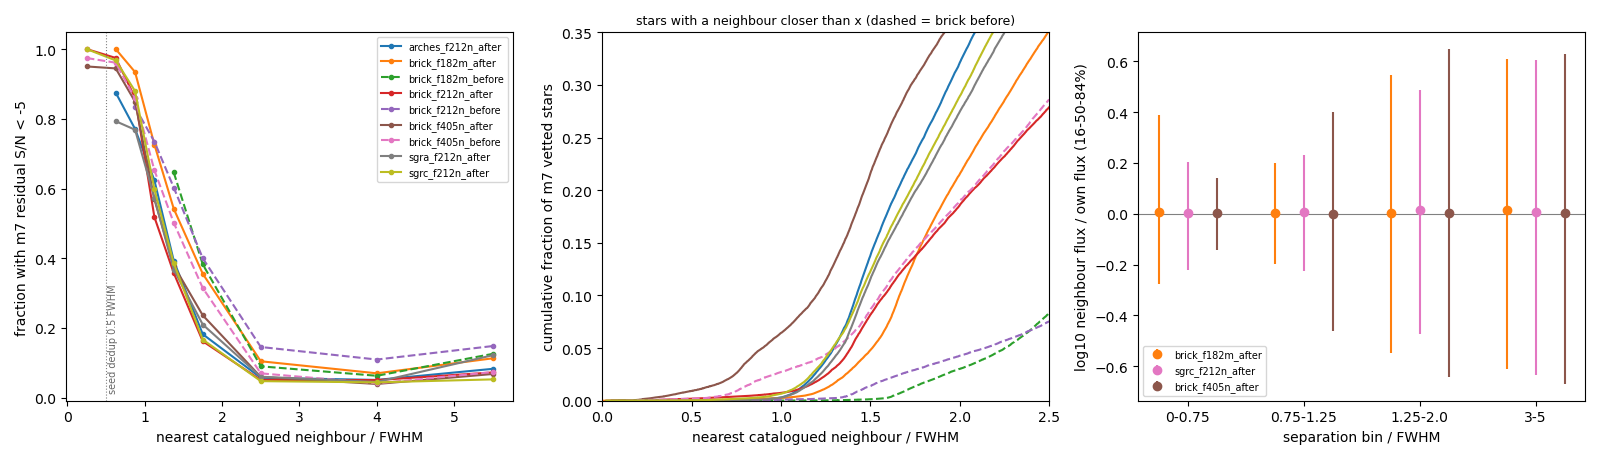
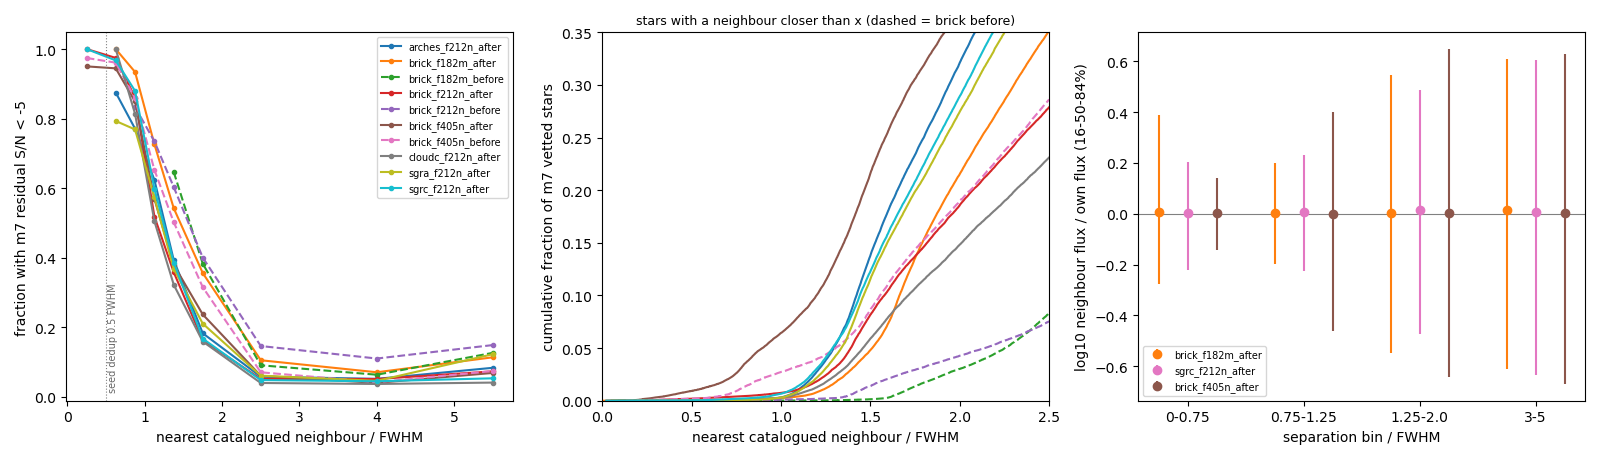
evidence: add cloudc F212N to the close-pair over-subtraction table
cloudc F212N m7 (re-catalogued after #1185) shows the same separation
dependence: S/N < -5 at 100% / 54% / 32% / 16% for 0-0.75 / 0.75-1.25 /
1.25-1.5 / 1.5-2 FWHM, 4% for isolated stars. table.py and figs.py now
read only the nn_oversub.py JSONs (*_after/*_before).

Claude-Session: https://claude.ai/code/session_018MNE6mts5ka4f6Za16Dcw5

diff --git a/docs/evidence/close_pair_oversub/scripts/table.py b/docs/evidence/close_pair_oversub/scripts/table.py
@@ -7,7 +7,7 @@ OUT = os.path.join(os.path.dirname(os.path.abspath(__file__)), 'out')
 GROUPS = [(0, 0.75), (0.75, 1.25), (1.25, 1.5), (1.5, 2), (2, 3), (3, 5), (5, float('inf'))]
 lines = ['| field band (m7) | n vetted | ' + ' | '.join(f'{a}–{b:g}' for a, b in GROUPS)
          + ' | all | NN < 1.5 FWHM |', '|---|---|' + '---|' * len(GROUPS) + '---|---|']
-files = sorted(glob.glob(os.path.join(OUT, '*.json')),
+files = sorted((f for f in glob.glob(os.path.join(OUT, '*.json')) if f.endswith(('_after.json', '_before.json'))),
                key=lambda f: (json.load(open(f))['which'] != 'after', f))
 for f in files:
     d = json.load(open(f))

diff --git a/docs/evidence/close_pair_oversub/scripts/figs.py b/docs/evidence/close_pair_oversub/scripts/figs.py
@@ -31,7 +31,7 @@ SEPBINS = [(0, 0.75), (0.75, 1.25), (1.25, 2.0)]
 
 def curves():
     fig, ax = plt.subplots(1, 3, figsize=(16, 4.6))
-    for f in sorted(glob.glob(os.path.join(OUT, '*.json'))):
+    for f in sorted(f for f in glob.glob(os.path.join(OUT, '*.json')) if f.endswith(('_after.json', '_before.json'))):
         d = json.load(open(f))
         name = os.path.basename(f)[:-5]
         ls = '--' if d['which'] == 'before' else '-'

diff --git a/docs/evidence/close_pair_oversub/README.md b/docs/evidence/close_pair_oversub/README.md
@@ -31,6 +31,7 @@ star (`results/table.md`, `figures/curves.png`):
 | brick F182M after | 388,930 | 100% (66) | 76% (635) | 54% (2181) | 36% (10035) | 10% (15959) | 7% (23758) | 11% (7342) | 15.8% | 4.8% |
 | brick F212N after | 195,636 | 99% (233) | 58% (1217) | 36% (3453) | 16% (6248) | 5% (11319) | 5% (22941) | 7% (14572) | 10.0% | 8.2% |
 | brick F405N after | 88,722 | 95% (1572) | 69% (5273) | 38% (6116) | 24% (9293) | 6% (12242) | 4% (19520) | 7% (5921) | 19.3% | 21.6% |
+| cloudc F212N after | 233,665 | 100% (56) | 54% (1002) | 32% (2486) | 16% (5347) | 4% (10229) | 4% (23584) | 4% (17207) | 7.0% | 5.9% |
 | sgra F212N after | 241,300 | 82% (39) | 59% (1811) | 37% (5049) | 21% (9511) | 6% (16735) | 5% (22411) | 12% (4027) | 12.5% | 11.5% |
 | sgrc F212N after | 358,790 | 97% (113) | 63% (2341) | 39% (4916) | 17% (9986) | 5% (17484) | 4% (21752) | 5% (3405) | 11.9% | 12.3% |
 | brick F182M before | 264,057 | - (3) | - (16) | 65% (65) | 38% (1731) | 9% (9744) | 6% (31356) | 13% (17055) | 9.5% | 0.1% |
@@ -39,7 +40,8 @@ star (`results/table.md`, `figures/curves.png`):
 
 Columns 3-9: fraction with S/N < -5 (number of sampled stars) per
 nearest-neighbour bin in units of the filter FWHM. "before" is the
-2026-09-03 brick m7 (pre-#1086); "after" is the rerun m7.
+2026-09-03 brick m7 (pre-#1086); "after" is the rerun m7. The cloudc row is the
+2026-10-18 m7, re-catalogued after the #1185 cosmic-ray fix.
 
 The over-subtracted fraction per separation bin is similar before and after.
 The number of close pairs grew: in brick, the fraction of m7 vetted stars with

diff --git a/docs/evidence/close_pair_oversub/results/table.md b/docs/evidence/close_pair_oversub/results/table.md
@@ -4,6 +4,7 @@
 | brick F182M after | 388,930 | 100% (66) | 76% (635) | 54% (2181) | 36% (10035) | 10% (15959) | 7% (23758) | 11% (7342) | 15.8% | 4.8% |
 | brick F212N after | 195,636 | 99% (233) | 58% (1217) | 36% (3453) | 16% (6248) | 5% (11319) | 5% (22941) | 7% (14572) | 10.0% | 8.2% |
 | brick F405N after | 88,722 | 95% (1572) | 69% (5273) | 38% (6116) | 24% (9293) | 6% (12242) | 4% (19520) | 7% (5921) | 19.3% | 21.6% |
+| cloudc F212N after | 233,665 | 100% (56) | 54% (1002) | 32% (2486) | 16% (5347) | 4% (10229) | 4% (23584) | 4% (17207) | 7.0% | 5.9% |
 | sgra F212N after | 241,300 | 82% (39) | 59% (1811) | 37% (5049) | 21% (9511) | 6% (16735) | 5% (22411) | 12% (4027) | 12.5% | 11.5% |
 | sgrc F212N after | 358,790 | 97% (113) | 63% (2341) | 39% (4916) | 17% (9986) | 5% (17484) | 4% (21752) | 5% (3405) | 11.9% | 12.3% |
 | brick F182M before | 264,057 | – (3) | – (16) | 65% (65) | 38% (1731) | 9% (9744) | 6% (31356) | 13% (17055) | 9.5% | 0.1% |
